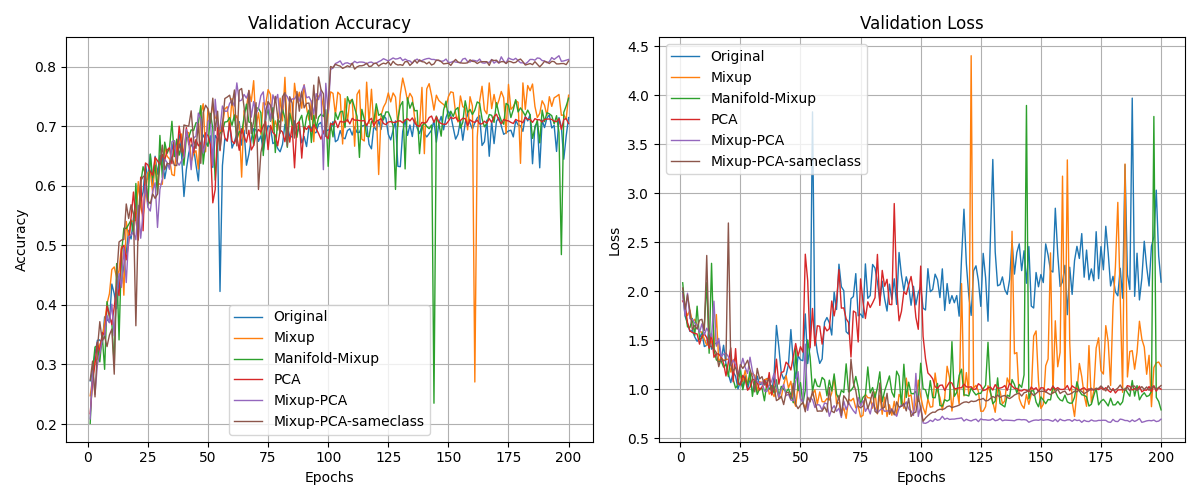
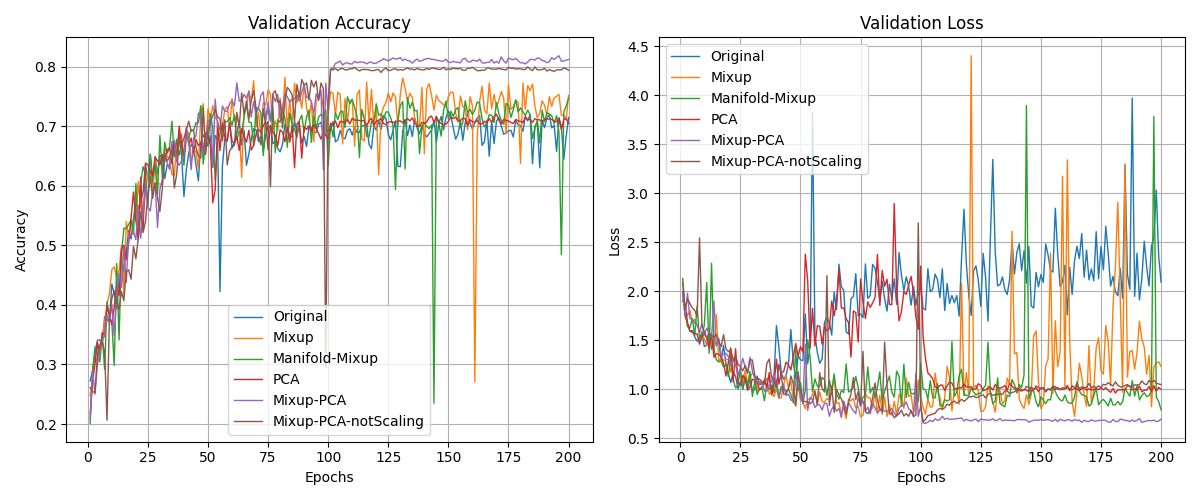
alpha = 0.5

diff --git a/src/models/resnet.py b/src/models/resnet.py
@@ -262,67 +262,12 @@ def manifold_perturbation_random(features, device, random_rate, epsilon=0.05):
         # そのまま返す
         return features
 
-def local_pca_perturbation(data, labels, device, k=10, alpha=1.0):
-    """
-    局所PCAに基づく摂動をデータに加える（同クラスかつ近傍の散らばり内に収める）
-
-    :param data: (N, D) 次元のテンソル (N: サンプル数, D: 特徴次元)
-    :param labels: (N,) 次元のラベルテンソル
-    :param device: 使用するデバイス（cuda or cpu）
-    :param k: k近傍の数
-    :param alpha: 摂動の強さ（最大主成分の標準偏差に対する割合）
-    :return: 摂動後のテンソル（同shape）
-    """
-    use_variance_scaling = True
-    data_np = data.cpu().detach().numpy() if isinstance(data, torch.Tensor) else data
-    labels_np = labels.cpu().detach().numpy() if isinstance(labels, torch.Tensor) else labels
-    N, D = data_np.shape
-
-    perturbed_data = np.copy(data_np)
-
-    for i in range(N):
-        # 同じクラスのインデックスを取得
-        same_class_mask = labels_np == labels_np[i]
-        same_class_data = data_np[same_class_mask]
-
-        if len(same_class_data) <= 1:
-            continue  # 自分しかいない場合はスキップ
-
-        # k近傍探索（同クラス内で）
-        k_eff = min(k, len(same_class_data))
-        nbrs = NearestNeighbors(n_neighbors=k_eff, algorithm='ball_tree').fit(same_class_data)
-        _, indices = nbrs.kneighbors([data_np[i]])
-        neighbors = same_class_data[indices[0]]
-
-        # PCA実行
-        pca = PCA(n_components=min(D, k_eff))
-        pca.fit(neighbors)
-        components = pca.components_           # shape: (n_components, D)
-        variances = pca.explained_variance_    # shape: (n_components,)
-
-        # ノイズベクトル作成
-        noise = np.zeros(D)
-        for j in range(len(components)):
-            if use_variance_scaling:
-                noise += np.random.randn() * np.sqrt(variances[j]) * components[j]
-            else:
-                noise += np.random.randn() * components[j]
-
-        # 正規化＆スケーリング
-        if np.linalg.norm(noise) > 0:
-            noise = noise / np.linalg.norm(noise)
-        max_std = np.sqrt(variances[0])
-        scaled_noise = alpha * max_std * noise
-
-        # 摂動適用
-        perturbed_data[i] += scaled_noise
-
-    return torch.tensor(perturbed_data, dtype=torch.float32).to(device)
-
-# def local_pca_perturbation(data, device, k=10, alpha=1.0):
+# def local_pca_perturbation(data, labels, device, k=10, alpha=1.0):
 #     """
-#     局所PCAに基づく摂動をデータに加える（近傍の散らばり内に収める）
+#     局所PCAに基づく摂動をデータに加える（同クラスかつ近傍の散らばり内に収める）
+
 #     :param data: (N, D) 次元のテンソル (N: サンプル数, D: 特徴次元)
+#     :param labels: (N,) 次元のラベルテンソル
 #     :param device: 使用するデバイス（cuda or cpu）
 #     :param k: k近傍の数
 #     :param alpha: 摂動の強さ（最大主成分の標準偏差に対する割合）
@@ -330,23 +275,32 @@ def local_pca_perturbation(data, labels, device, k=10, alpha=1.0):
 #     """
 #     use_variance_scaling = True
 #     data_np = data.cpu().detach().numpy() if isinstance(data, torch.Tensor) else data
+#     labels_np = labels.cpu().detach().numpy() if isinstance(labels, torch.Tensor) else labels
 #     N, D = data_np.shape
-#     if N < k:
-#         k = N
-
-#     nbrs = NearestNeighbors(n_neighbors=k, algorithm='ball_tree').fit(data_np)
-#     _, indices = nbrs.kneighbors(data_np)
 
 #     perturbed_data = np.copy(data_np)
 
 #     for i in range(N):
-#         neighbors = data_np[indices[i]]
-#         pca = PCA(n_components=min(D, k))
+#         # 同じクラスのインデックスを取得
+#         same_class_mask = labels_np == labels_np[i]
+#         same_class_data = data_np[same_class_mask]
+
+#         if len(same_class_data) <= 1:
+#             continue  # 自分しかいない場合はスキップ
+
+#         # k近傍探索（同クラス内で）
+#         k_eff = min(k, len(same_class_data))
+#         nbrs = NearestNeighbors(n_neighbors=k_eff, algorithm='ball_tree').fit(same_class_data)
+#         _, indices = nbrs.kneighbors([data_np[i]])
+#         neighbors = same_class_data[indices[0]]
+
+#         # PCA実行
+#         pca = PCA(n_components=min(D, k_eff))
 #         pca.fit(neighbors)
 #         components = pca.components_           # shape: (n_components, D)
 #         variances = pca.explained_variance_    # shape: (n_components,)
 
-#         # ノイズベクトル（各主成分方向に沿った合成）
+#         # ノイズベクトル作成
 #         noise = np.zeros(D)
 #         for j in range(len(components)):
 #             if use_variance_scaling:
@@ -354,17 +308,61 @@ def local_pca_perturbation(data, labels, device, k=10, alpha=1.0):
 #             else:
 #                 noise += np.random.randn() * components[j]
 
-#         # ノイズの方向はそのまま、長さをスケールする
+#         # 正規化＆スケーリング
 #         if np.linalg.norm(noise) > 0:
 #             noise = noise / np.linalg.norm(noise)
-
-#         # 局所の最大主成分の標準偏差に比例したスケール
-#         max_std = np.sqrt(variances[0])  # 最大分散方向
+#         max_std = np.sqrt(variances[0])
 #         scaled_noise = alpha * max_std * noise
 
+#         # 摂動適用
 #         perturbed_data[i] += scaled_noise
 
 #     return torch.tensor(perturbed_data, dtype=torch.float32).to(device)
+
+def local_pca_perturbation(data, device, k=10, alpha=0.5):
+    """
+    局所PCAに基づく摂動をデータに加える（近傍の散らばり内に収める）
+    :param data: (N, D) 次元のテンソル (N: サンプル数, D: 特徴次元)
+    :param device: 使用するデバイス（cuda or cpu）
+    :param k: k近傍の数
+    :param alpha: 摂動の強さ（最大主成分の標準偏差に対する割合）
+    :return: 摂動後のテンソル（同shape）
+    """
+    data_np = data.cpu().detach().numpy() if isinstance(data, torch.Tensor) else data
+    N, D = data_np.shape
+    if N < k:
+        k = N
+
+    nbrs = NearestNeighbors(n_neighbors=k, algorithm='ball_tree').fit(data_np)
+    _, indices = nbrs.kneighbors(data_np)
+
+    perturbed_data = np.copy(data_np)
+
+    for i in range(N):
+        neighbors = data_np[indices[i]]
+        pca = PCA(n_components=min(D, k))
+        pca.fit(neighbors)
+        components = pca.components_           # shape: (n_components, D)
+        variances = pca.explained_variance_    # shape: (n_components,)
+
+        # ノイズベクトル（各主成分方向に沿った合成）
+        noise = np.zeros(D)
+        for j in range(len(components)):
+                noise += np.random.randn() * np.sqrt(variances[j]) * components[j]
+
+        # ノイズの方向はそのまま、長さをスケールする
+        if np.linalg.norm(noise) > 0:
+            noise = noise / np.linalg.norm(noise)
+
+        # 局所の最大主成分の標準偏差に比例したスケール
+        max_std = np.sqrt(variances[0])  # 最大分散方向
+        scaled_noise = alpha * max_std * noise
+
+        scaled_noise = alpha * noise
+
+        perturbed_data[i] += scaled_noise
+
+    return torch.tensor(perturbed_data, dtype=torch.float32).to(device)
 
 def pca_directional_perturbation_local(data, device, k=10, alpha=1.0):
     """

diff --git a/train_aug.py b/train_aug.py
@@ -18,7 +18,7 @@ from src.models.resnet import ResNet18
 from sklearn.manifold import TSNE
 
 def main():
-    data_type = "cifar10"
+    data_type = "stl10"
     
     if data_type == "stl10":
         epochs = 200
@@ -74,7 +74,8 @@ def main():
         # "Mixup": transforms.Compose([base_transform]),
         # "Manifold-Mixup-Origin": transforms.Compose([base_transform]),
         # "PCA": transforms.Compose([base_transform]),
-        "Mixup-PCA-sameclass": transforms.Compose([base_transform]),
+        # "Mixup-PCA-notScaling": transforms.Compose([base_transform]),
+        "Mixup-PCA-alpha05": transforms.Compose([base_transform]),
 
         # "Flipping": transforms.Compose([
         #     base_transform,
@@ -127,7 +128,7 @@ def main():
             if score <= val_acc:
                 print('Save model parameters...')
                 score = val_acc
-                model_save_path = f'./logs/resnet18/{name}/{data_type}_{epochs}_{N_train}.pth'
+                model_save_path = f'./logs/resnet18/{name}/{data_type}_{epochs}.pth'
                 torch.save(model.state_dict(), model_save_path)
 
             history['loss'].append(train_loss)
@@ -136,7 +137,7 @@ def main():
             history['val_accuracy'].append(val_acc)
             print(f'| {epoch+1} | Train loss: {train_loss:.3f} | Train acc: {train_acc:.3f} | Val loss: {val_loss:.3f} | Val acc: {val_acc:.3f} |')
 
-        with open(f'./history/resnet18/{name}/{data_type}_{epochs}_{N_train}.pickle', 'wb') as f:
+        with open(f'./history/resnet18/{name}/{data_type}_{epochs}.pickle', 'wb') as f:
             pickle.dump(history, f)
         
         # 一回も正解できなかったデータを取得
@@ -181,7 +182,7 @@ def main():
         print(f'Test Loss: {test_loss:.3f}, Test Accuracy: {test_acc:.3f}')
 
         test_history = {'acc': test_acc, 'loss': test_loss}
-        with open(f'./history/resnet18/{name}/{data_type}_{epochs}_{N_train}_test.pickle', 'wb') as f:
+        with open(f'./history/resnet18/{name}/{data_type}_{epochs}_test.pickle', 'wb') as f:
             pickle.dump(test_history, f)
         
         # # t-SNE visualization
@@ -224,7 +225,7 @@ def train(model, train_loader, criterion, optimizer, device, augment, aug_ok, ep
             else:
                 preds = model(images, labels, device, augment, aug_ok=True)
                 loss  = criterion(preds, labels)
-        elif augment == "Mixup-PCA" or "Mixup-PCA-sameclass":
+        elif augment == "Mixup-PCA" or "Mixup-PCA-notScaling":
             if epochs < 100:
                 images, y_a, y_b, lam = mixup_data(images, labels, 1.0, device)
                 preds = model(images, labels, device, augment, aug_ok)

diff --git a/evaluate_error.py b/evaluate_error.py
@@ -21,7 +21,7 @@ from sklearn.decomposition import PCA
 
 def main():
     model_type = 'resnet18'
-    data_type = 'cifar10'
+    data_type = 'stl10'
     tuning = False
     # augmentations = ["Original", "Flipping", "Cropping", "Rotation", "Translation", "Noisy", "Blurring", "Random-Erasing"]
     if tuning:
@@ -30,8 +30,8 @@ def main():
         N = [1000, 5000, 10000]
     else:
         epochs = 200
-        augmentations = ["Original", "Mixup", "Manifold-Mixup-Origin", "PCA", "Mixup-PCA", "Mixup-PCA-sameclass"]
-        N = 10000
+        augmentations = ["Original", "Mixup", "Manifold-Mixup-Origin", "PCA", "Mixup-PCA", "Mixup-PCA-notScaling"]
+        N = 40000
     
     device = torch.device("cuda" if torch.cuda.is_available() else "cpu")
     

diff --git a/plot_result.py b/plot_result.py
@@ -54,7 +54,12 @@ def plot_comparison_graph(model_type, augmentations, data_type, N_train):
 
 if __name__ == "__main__":
     model_type = 'resnet18'
-    data_type = "cifar10"
-    N_train = 10000
-    augmentations = ["Original", "Mixup", "Manifold-Mixup-Origin", "PCA", "Mixup-PCA", "Mixup-PCA-sameclass"]
+    data_type = "stl10"
+
+    if data_type == "cifar10":
+        N_train = 10000
+    elif data_type == "stl10":
+        N_train = 40000
+        
+    augmentations = ["Original", "Mixup", "Manifold-Mixup-Origin", "PCA", "Mixup-PCA", "Mixup-PCA-notScaling"]
     plot_comparison_graph(model_type, augmentations, data_type, N_train)
